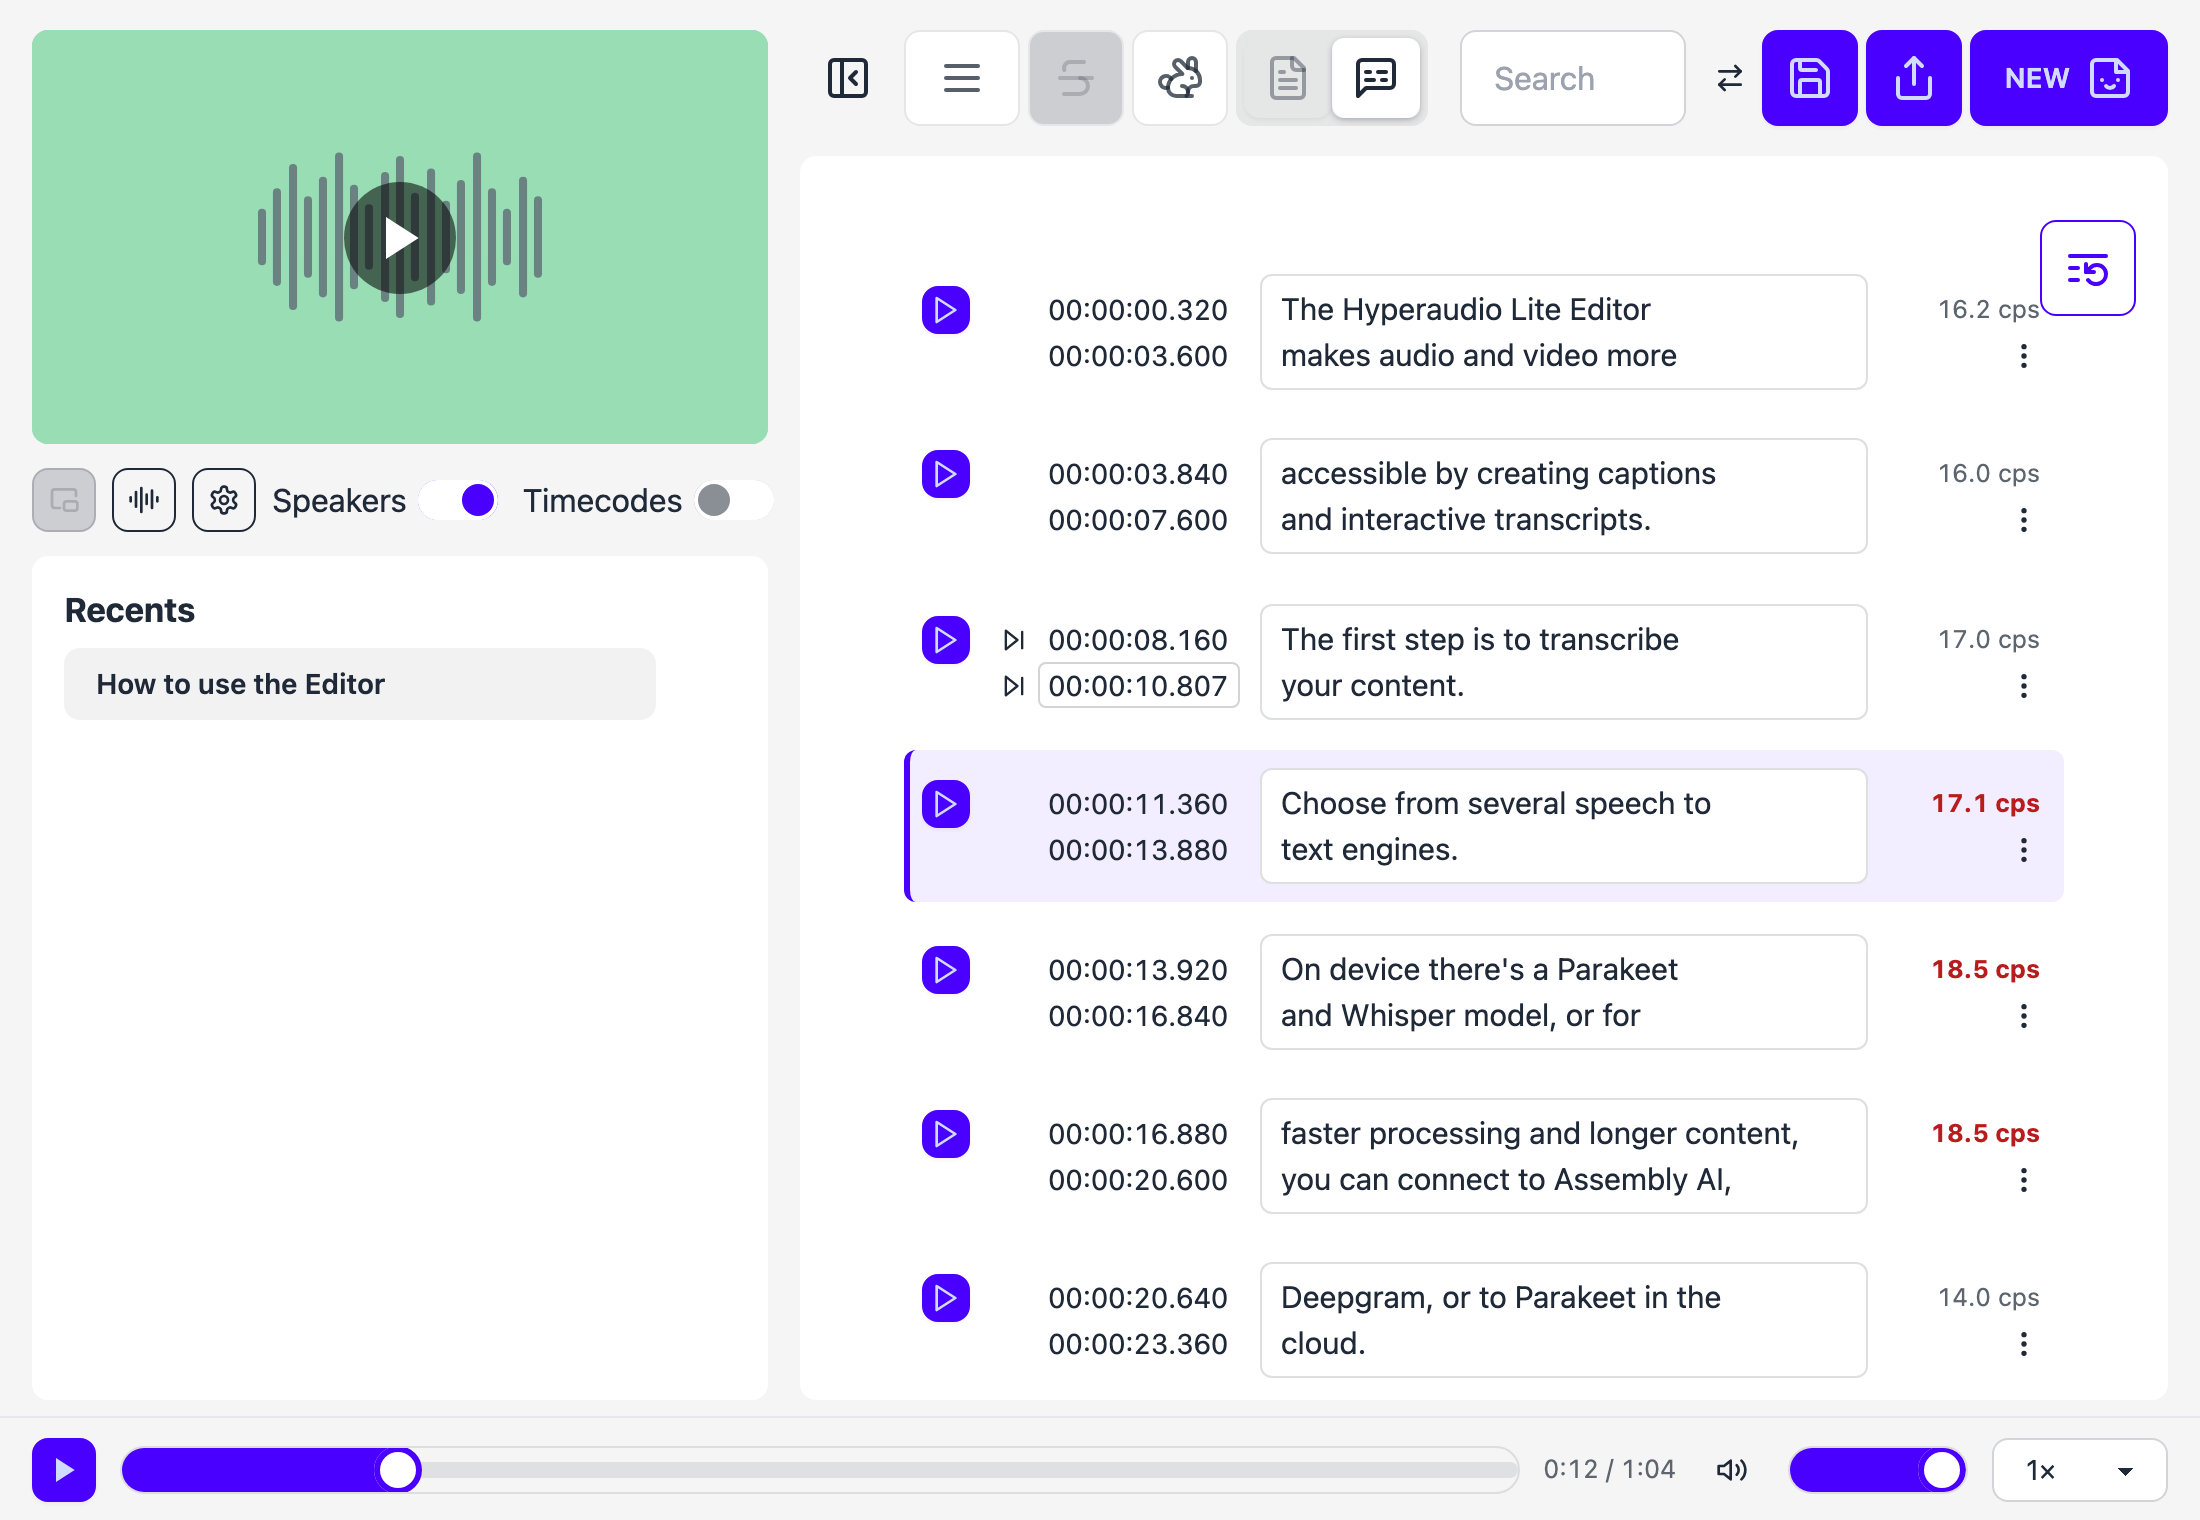
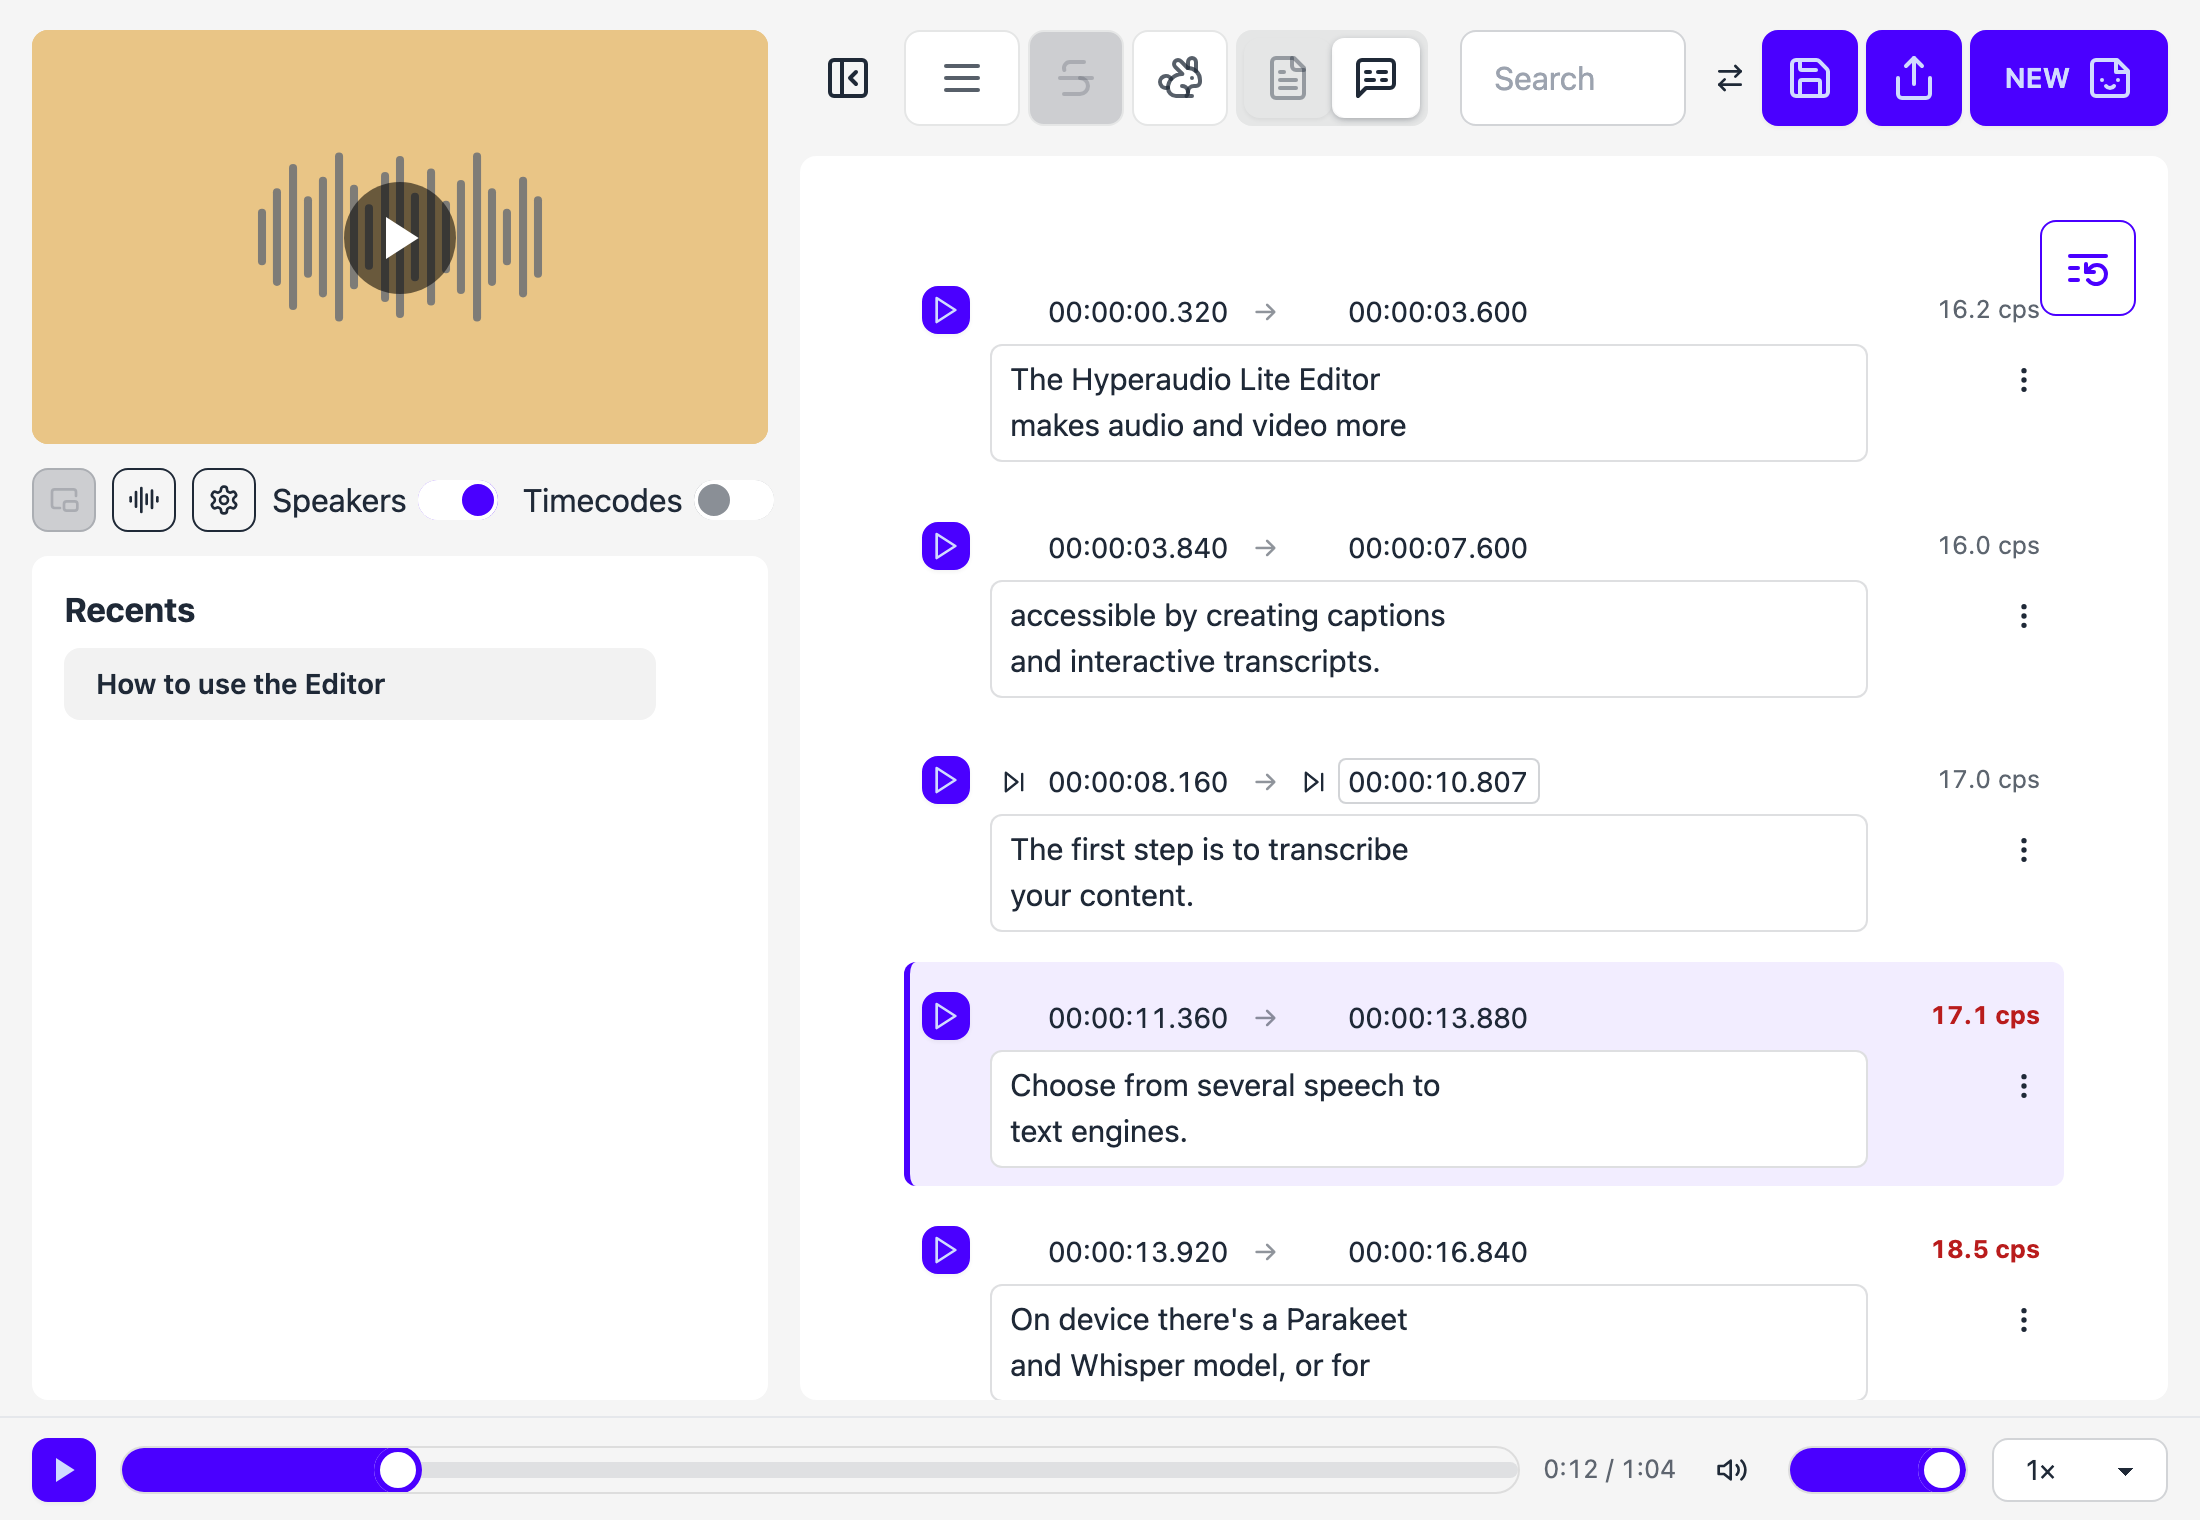
Out sits to the right of In again, with the text box beneath the times (#773)
In → Out on the first line with the reading rate at its right, the text
box on the second with the menu beside it. At the transcript's width
there is no room for the text beside two times, and the box is better
for the width. The times of every row sit in the same two columns, and
the arrow between them says which is which. The README follows.

diff --git a/css/hyperaudio-lite-editor.css b/css/hyperaudio-lite-editor.css
@@ -2162,25 +2162,23 @@ html.ha-transcribing #upload-transcribe-btn {
 }
 
 /* The caption editor's rows (#773): one cue per row, as wide as the
-   transcript with its timecodes showing. Where the column is narrower than
-   560px the row folds, with the text on its own line beneath. */
+   transcript with its timecodes showing. */
 #captions-display {
   container-type: inline-size;   /* the fold below is by the column's width, not the window's */
 }
-/* The row is a grid of two lines: In and Out stacked in one column, each
-   level with a line of the text, the menu on the first line and the rate
-   on the second at the right. The text box spans both. The first line's
-   height is the text box's first line, so everything meets it. */
+/* The row is two lines: play, In → Out and the reading rate on the first,
+   the text box on the second with the menu beside it. The first line's
+   height is fixed, so the times and the rate meet. */
 #captions-display .caption {
   display: grid;
-  grid-template-columns: auto auto minmax(0, 1fr) 5rem;
+  grid-template-columns: auto minmax(0, 1fr) 5rem;
   grid-template-rows: calc(6px + 1.45rem) auto;
   grid-template-areas:
-    "play times text rate"
-    "play times text menu";
+    "play times rate"
+    "play text menu";
   align-items: start;
   column-gap: 10px;
-  row-gap: 0;
+  row-gap: 6px;
   padding: 9px 8px 9px 6px;
   border-left: 3px solid transparent;
   border-radius: 6px;
@@ -2192,14 +2190,12 @@ html.ha-transcribing #upload-transcribe-btn {
   border-left-color: oklch(var(--p));
 }
 .caption-play { grid-area: play; align-self: start; margin-top: 6px; }
-/* In over Out, a line each, the cue button before each time */
+/* In, the arrow, Out, the cue button before each time */
 .caption-times {
   grid-area: times;
-  display: grid;
-  grid-template-columns: auto auto;
-  grid-auto-rows: 1.45rem;
+  display: flex;
+  flex-wrap: wrap;
   align-items: center;
-  justify-content: start;   /* in the folded row the column is wide, the times stay left */
   margin-top: 6px;
   white-space: nowrap;
 }
@@ -2220,6 +2216,7 @@ html.ha-transcribing #upload-transcribe-btn {
   background: oklch(var(--b1));
   outline: none;
 }
+.caption-arrow { color: oklch(var(--bc) / 0.5); padding: 0 6px; font-size: 0.875rem; }
 /* the cue buttons show when the times are hovered or being edited */
 .caption-seek {
   height: 1.45rem;
@@ -2258,7 +2255,7 @@ html.ha-transcribing #upload-transcribe-btn {
 }
 #captions-display .caption-rate { grid-area: rate; align-self: end; justify-self: end; margin: 0; padding: 0 4px; line-height: 1.45rem; text-align: right; }
 /* the row menu: a details element, so it opens with no script of its own */
-.caption-menu { grid-area: menu; position: relative; align-self: start; justify-self: end; height: 1.5rem; margin-top: 0; }
+.caption-menu { grid-area: menu; position: relative; align-self: start; justify-self: end; height: 1.5rem; margin-top: 6px; }
 /* a row is painted within its own box (content-visibility, index.html), which
    would clip its open menu: while the menu is open the row paints freely */
 #captions-display .caption.caption-menu-open { content-visibility: visible; }
@@ -2324,13 +2321,8 @@ html.ha-transcribing #upload-transcribe-btn {
   from { background: oklch(var(--p) / 0.18); }
   to { background: transparent; }
 }
-@container (max-width: 560px) {
-  #captions-display .caption {
-    grid-template-columns: auto minmax(0, 1fr) 5rem;
-    grid-template-rows: calc(6px + 1.45rem) auto auto;
-    grid-template-areas:
-      "play times rate"
-      "play times menu"
-      "text text text";
-  }
+/* a narrow column: the times wrap onto two lines, and the first line
+   grows to hold them */
+@container (max-width: 440px) {
+  #captions-display .caption { grid-template-rows: auto auto; }
 }

diff --git a/index.html b/index.html
@@ -363,6 +363,7 @@ If you are creating an open source application under a license compatible with t
       <button type="button" class="play caption-play btn btn-primary btn-xs btn-square" onclick="playClip(this)" aria-label="Play clip" title="Play clip"><svg xmlns="http://www.w3.org/2000/svg" width="16" height="16" viewBox="0 0 24 24" fill="none" stroke="currentColor" stroke-width="2" stroke-linecap="round" stroke-linejoin="round" class="lucide lucide-play"><polygon points="5 3 19 12 5 21 5 3"></polygon></svg></button>
       <div class="caption-times">
         <button type="button" class="play-start caption-seek btn btn-ghost btn-xs btn-square" onclick="seekTo(this)" aria-label="Go to In" title="Go to In"><svg xmlns="http://www.w3.org/2000/svg" width="14" height="14" viewBox="0 0 24 24" fill="none" stroke="currentColor" stroke-width="2" stroke-linecap="round" stroke-linejoin="round" class="lucide lucide-skip-forward"><polygon points="5 4 15 12 5 20 5 4"></polygon><line x1="19" x2="19" y1="5" y2="19"></line></svg></button><input class="start" value="" oninput="captionChange()" aria-label="In" title="In" spellcheck="false">
+        <span class="caption-arrow" aria-hidden="true">→</span>
         <button type="button" class="play-end caption-seek btn btn-ghost btn-xs btn-square" onclick="seekTo(this)" aria-label="Go to Out" title="Go to Out"><svg xmlns="http://www.w3.org/2000/svg" width="14" height="14" viewBox="0 0 24 24" fill="none" stroke="currentColor" stroke-width="2" stroke-linecap="round" stroke-linejoin="round" class="lucide lucide-skip-forward"><polygon points="5 4 15 12 5 20 5 4"></polygon><line x1="19" x2="19" y1="5" y2="19"></line></svg></button><input class="end" value="" oninput="captionChange()" aria-label="Out" title="Out" spellcheck="false">
       </div>
       <div class="caption-text">
